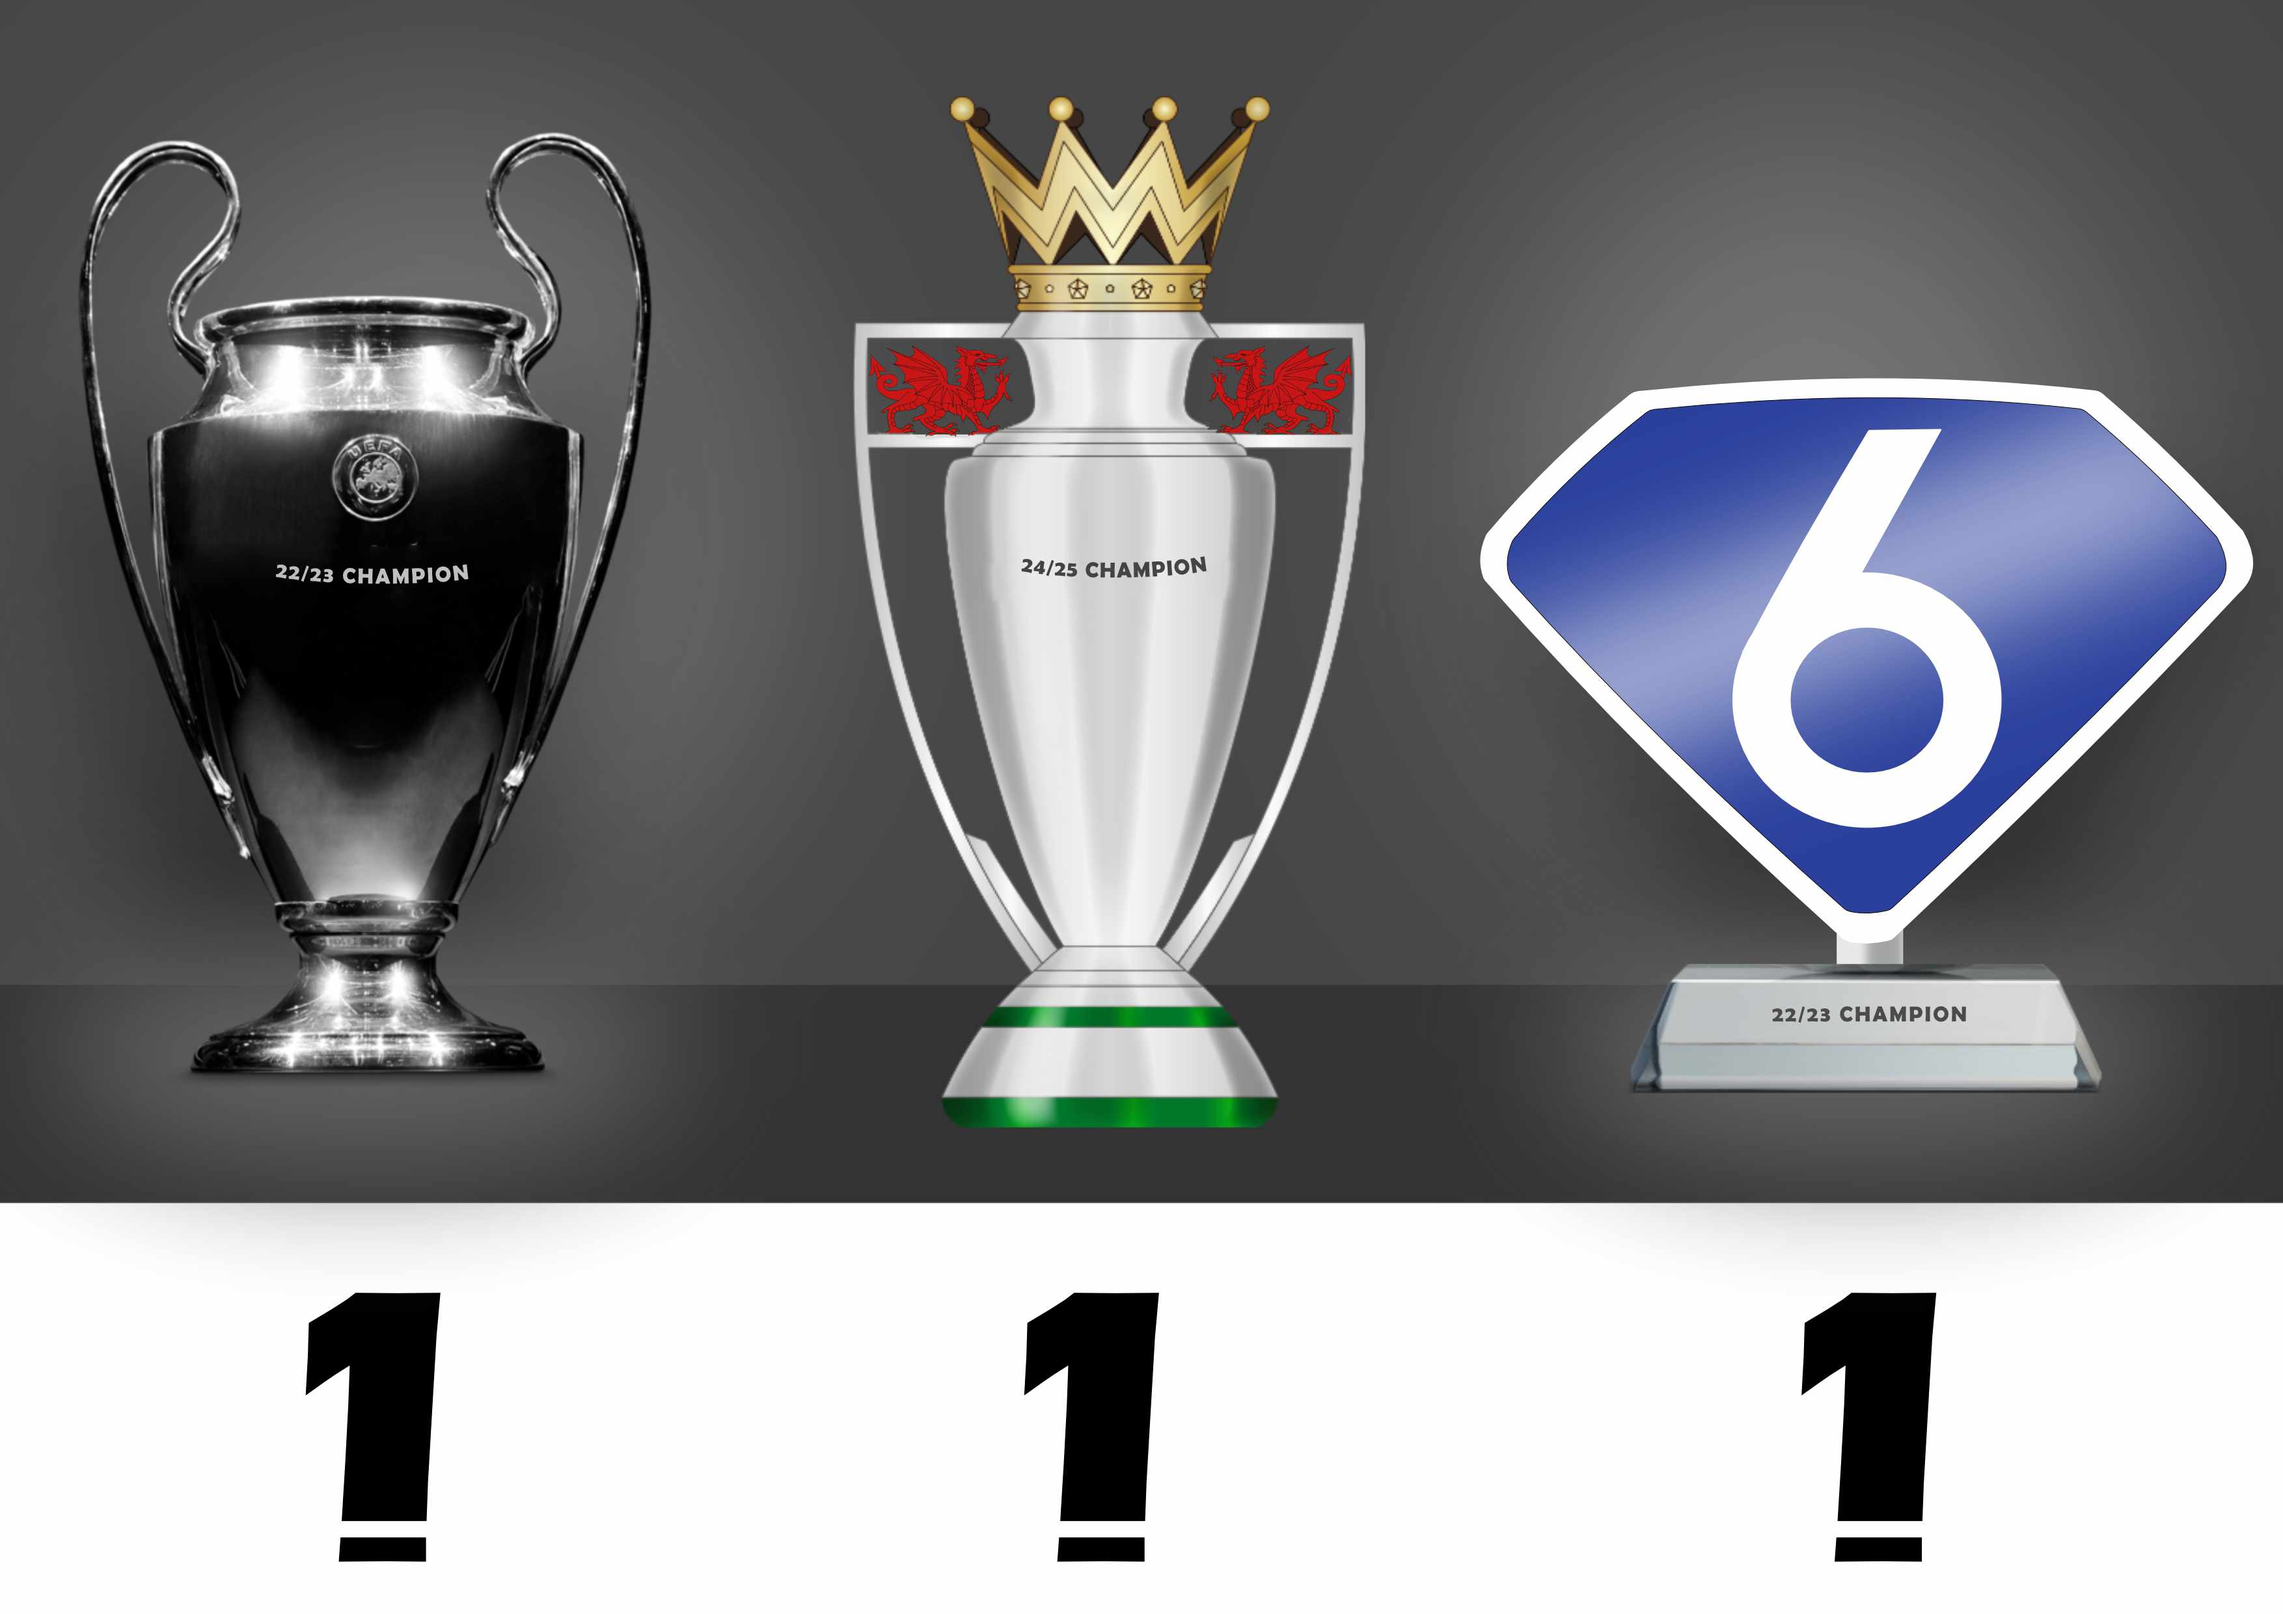
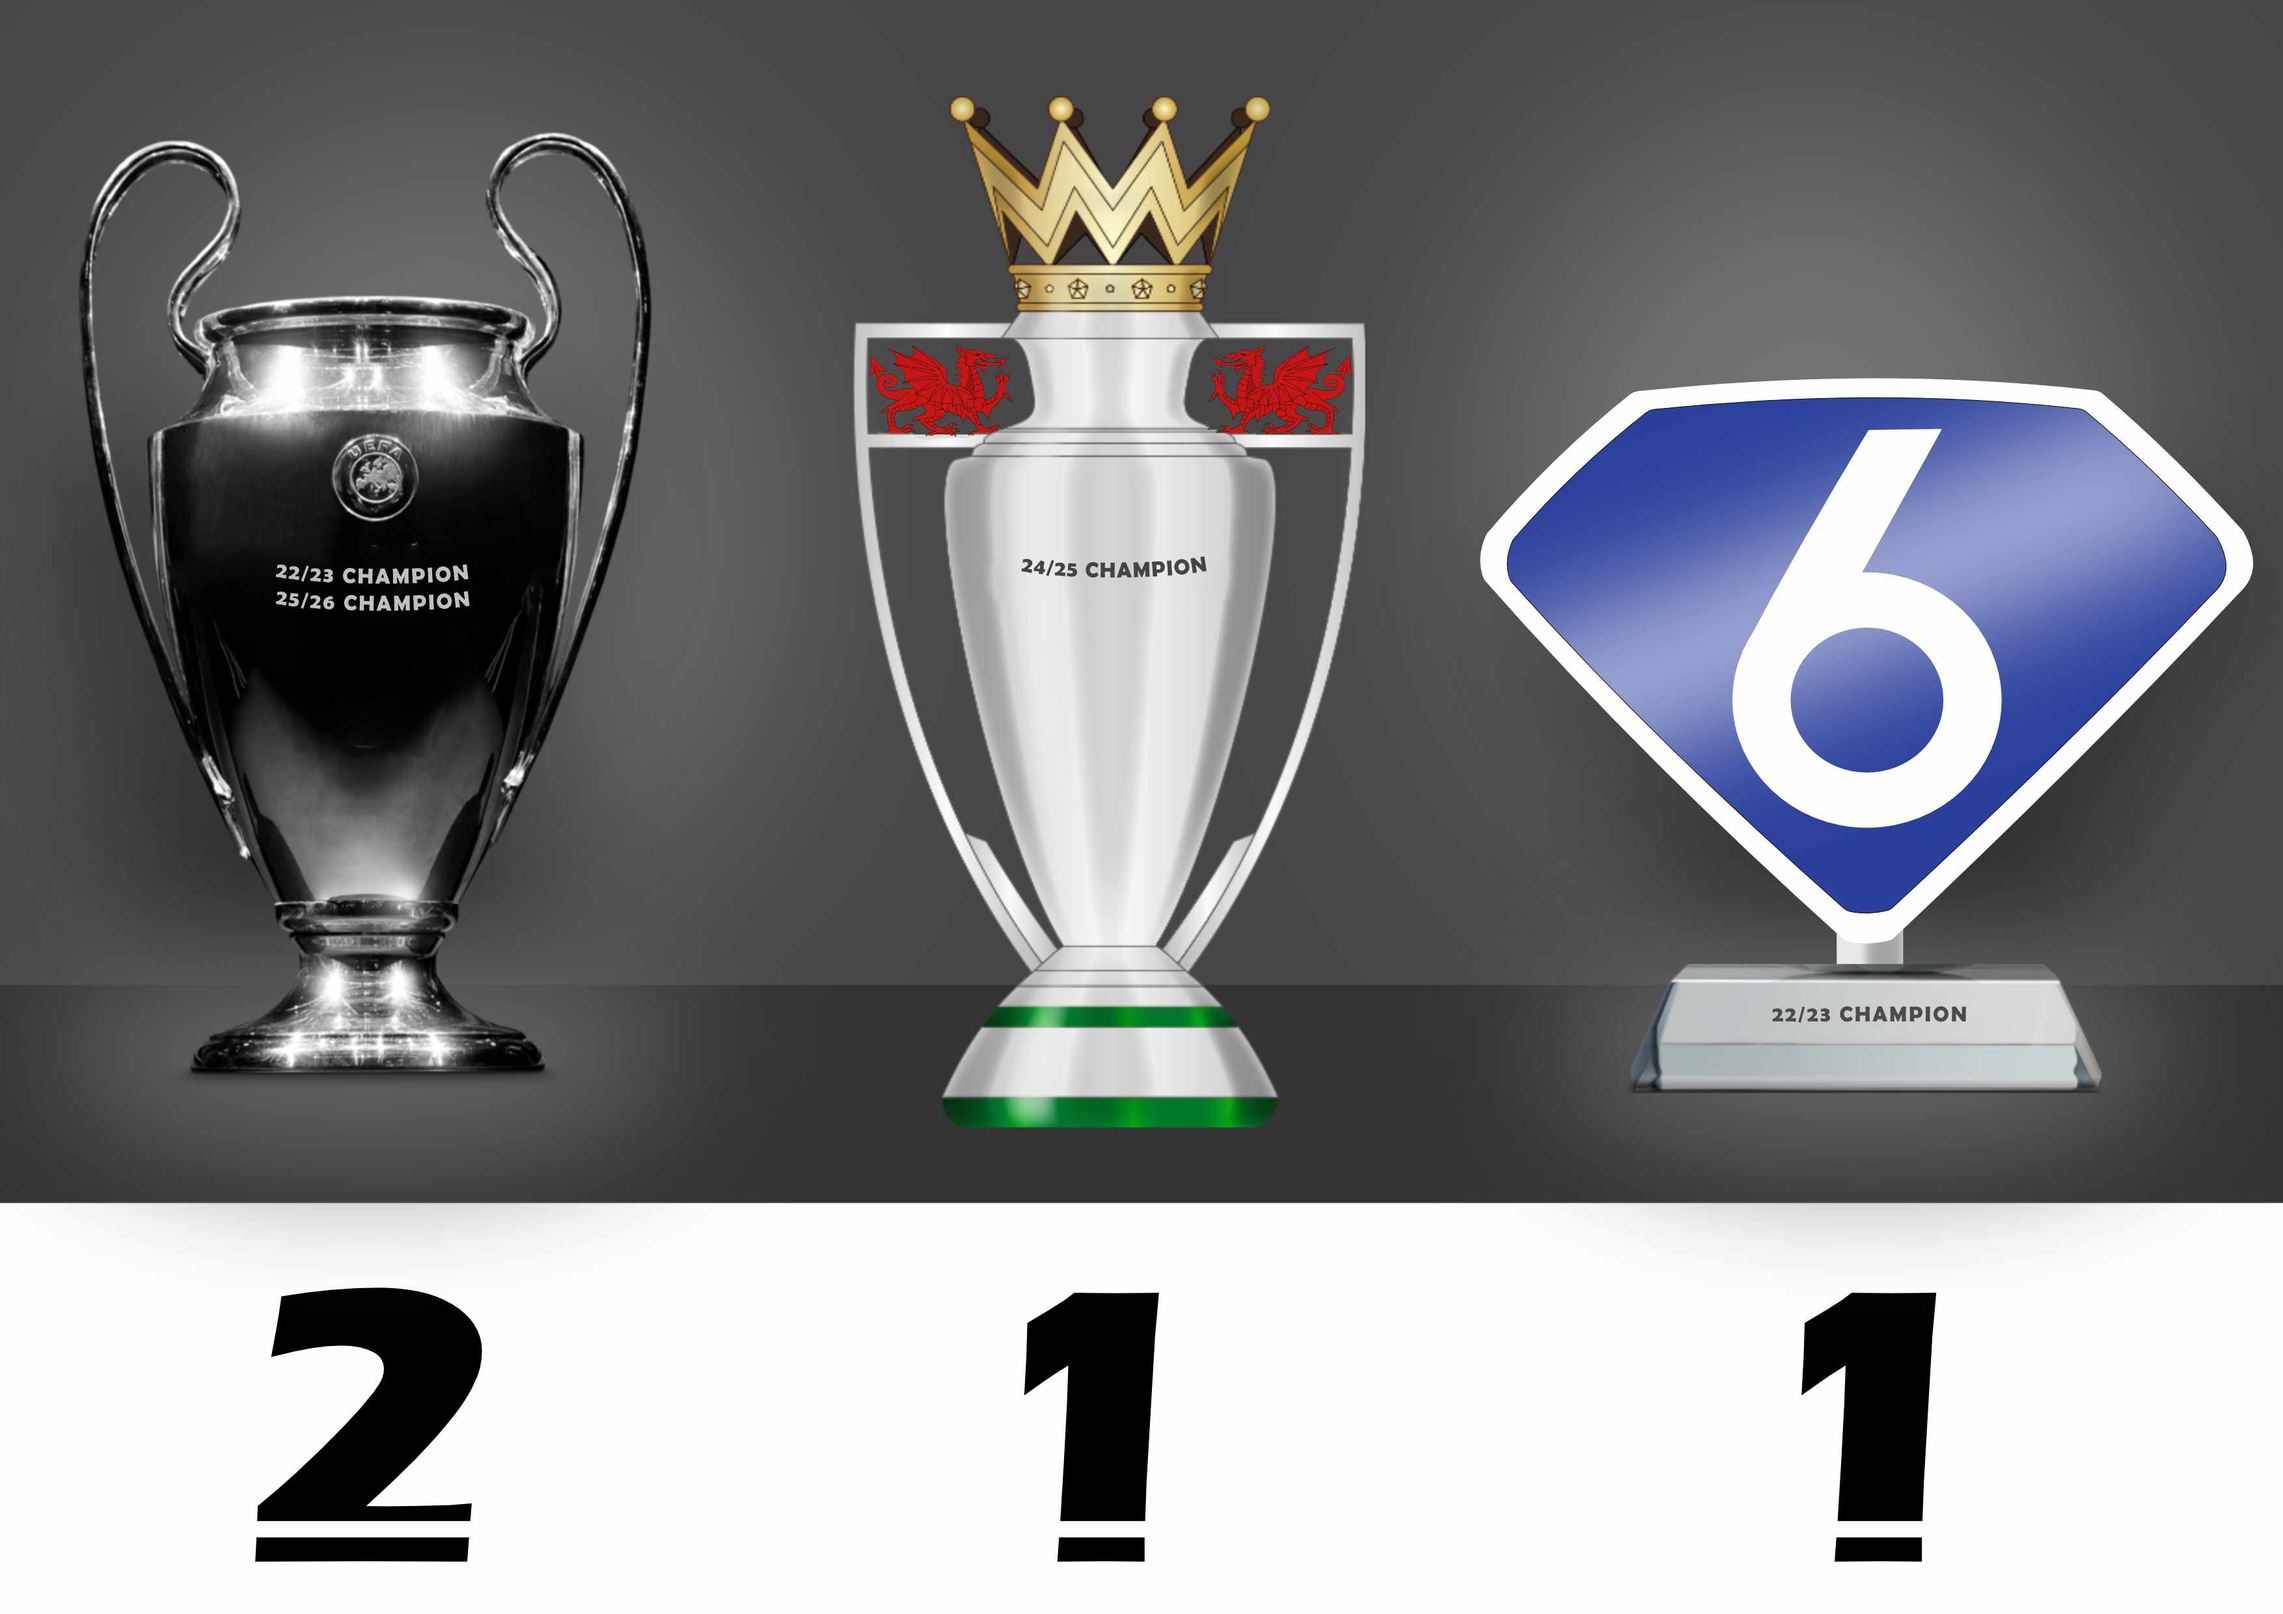
updates

Changed region(s): [[0.0932, 0.7759, 0.2175, 0.9931], [0.1864, 0.9311, 0.2175, 0.9931], [0.1554, 0.3724, 0.1864, 0.4035]]

diff --git a/hallOfChumps/index.html b/hallOfChumps/index.html
@@ -112,6 +112,19 @@ Trophy Cabinet</a>
 
 		</table>
 
+		<table class="top-table">
+			<div>
+			  	<div class="back-red"><h3>25 / 26</h3></div>
+			</div>
+
+			<tr>
+			    <td class="mainTitle">Richard</td>
+			    <td class="mainTitle">Daniel</td>
+			    <td class="mainTitle">N/A</td>		
+			</tr>
+
+		</table>
+
 		<br>
 		<br>
 		</div>
